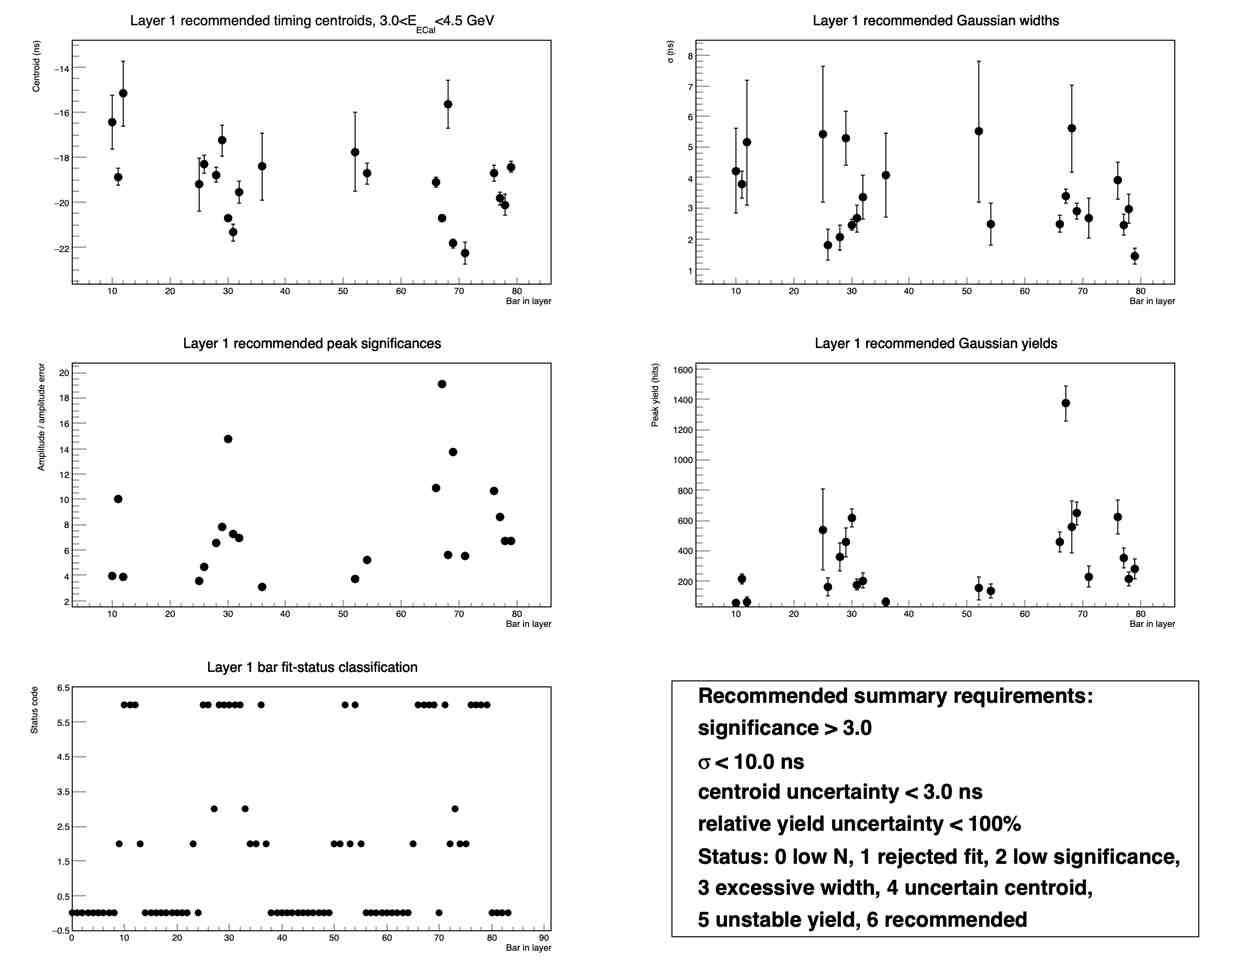
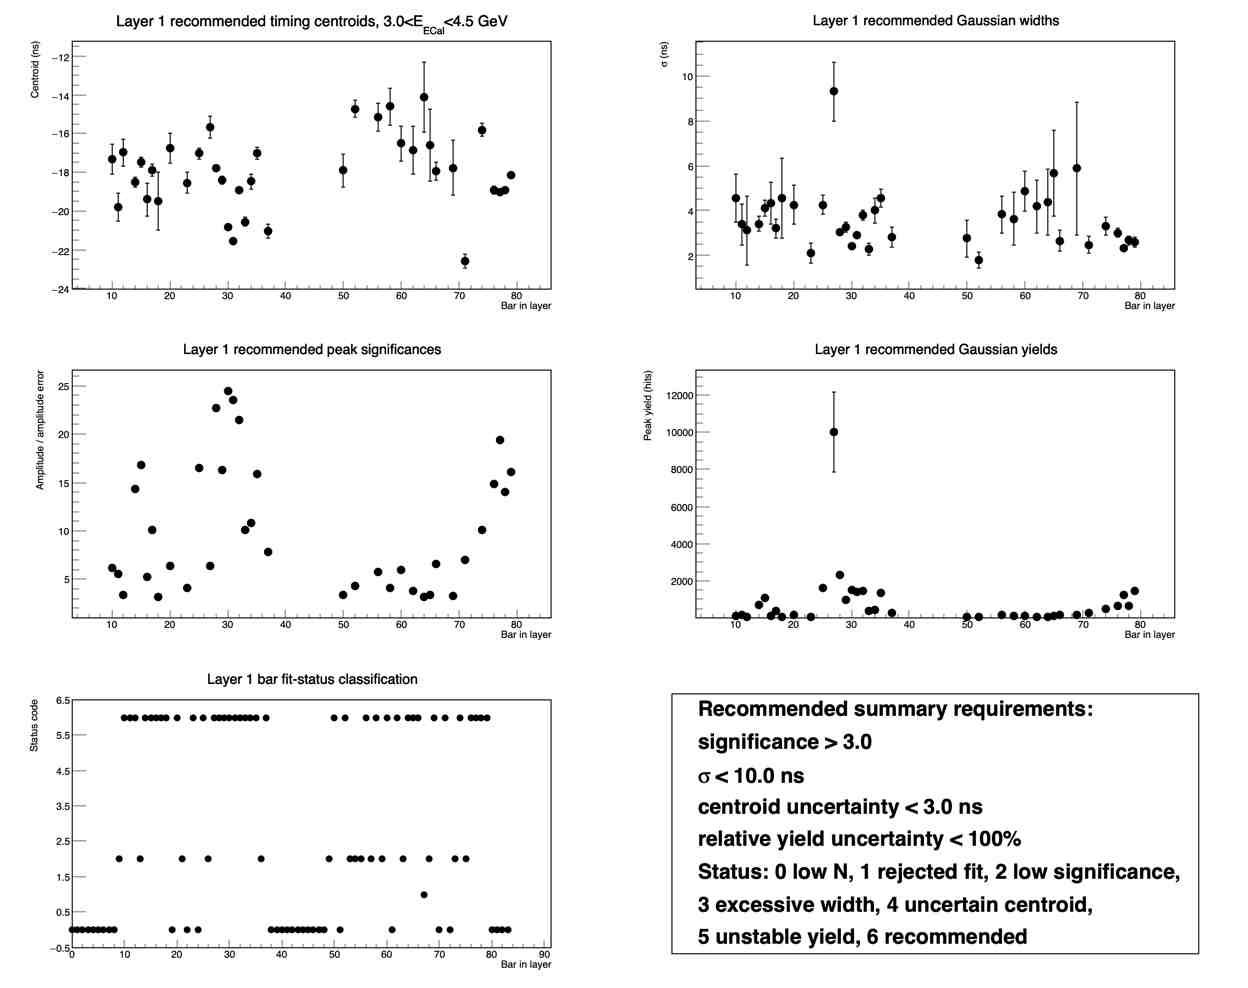
updats

diff --git a/scripts/cdet/CDet_HYDROGEN_RECENT_WORK_SUMMARY.md b/scripts/cdet/CDet_HYDROGEN_RECENT_WORK_SUMMARY.md
@@ -7,8 +7,9 @@ Last updated: 6 September 2026
 This document records the recent CDet hydrogen-analysis work so that the
 analysis can be resumed without reconstructing decisions from an interactive
 ROOT session. It covers the synchronized hydrogen macro, CDet/ECal coordinate
-and timing conventions, the event display, run-specific timing overrides, and
-the detector-wide bar timing survey.
+and timing conventions, the event display, the run-5711 development study,
+the later run-6077 validation, run-specific timing overrides, and the
+detector-wide bar timing survey.
 
 The work remains analysis-oriented. The timing-survey results described below
 are diagnostic recommendations, not a new set of production calibration
@@ -191,7 +192,13 @@ The recommended-fit requirements shown on the canvases are:
 Only status-6 bars are included in the centroid, width, significance, and yield
 panels. The status panel itself includes every bar.
 
-## Focused timing studies for bars 28 and 30
+## Run 5711 focused timing studies: bars 28 and 30
+
+Run 5711 was the development sample for the LH2 workflow. The established
+run-5710 pixel offsets, per-pixel polygon selections, and layer time-walk
+corrections were carried into this much higher-background coincidence-trigger
+environment. The only calibration parameter changed for the run was the
+detector-wide ECal timing slope `p1`, supplied by `CDet_run5711.dat`.
 
 Bars 28 and 30 provide concrete examples of the timing structure summarized
 by the detector-wide survey. Bar 30 lies in a comparatively favorable,
@@ -246,7 +253,7 @@ electron can still traverse CDet and ECal and therefore produce a correlated
 CDet–ECal timing peak. Events well outside that component are predominantly
 the high-rate, low-energy CDet background that is uncorrelated with ECal.
 
-## Survey results from the two ECal energy slices
+## Run 5711 detector-wide survey results
 
 The retained summary canvases are:
 
@@ -293,6 +300,78 @@ The principal observations are:
 The plotted “significance” is specifically the fitted Gaussian amplitude
 divided by its fitted uncertainty. It measures parameter precision; it should
 not be interpreted as a conventional signal-over-background significance.
+
+## Run 6077 validation
+
+Run 6077, taken several weeks later, provided an independent LH2 test of the
+workflow developed with run 5711. The established run-5710 pixel offsets,
+per-pixel polygon selections, and layer time-walk terms were again retained.
+Only the detector-wide ECal timing slope `p1` was changed, through
+`CDet_run6077.dat`; its starting value came from run 5992, the temporally
+closest cross-target reference. The focused diagnostics use the same LH2
+default `8 < TOT < 35 ns` unless a saved per-pixel polygon is present.
+
+Pixel 485 provides a direct comparison with the run-5711 study. Its ECal-CDet
+time-difference spectrum retains a localized component near
+`t_ECal - t_CDet,LE = -22 ns`, demonstrating that the calibrated pixel-level
+timing structure remains recognizable in run 6077.
+
+![Run 6077 ECal-CDet time-difference spectrum for logical pixel 485](documentation_images/hydrogen/run6077_pixel485_ecal_cdet_dt.jpg)
+
+The 4-by-4 bar-30 view shows the corresponding behavior pixel by pixel. The
+peak is clearest in the better-populated channels, while the remaining panels
+illustrate the large uncorrelated LH2 background and the channels for which a
+stable fit is not available.
+
+![Run 6077 individual-pixel ECal-CDet timing fits for bar 30](documentation_images/hydrogen/run6077_bar30_pixel_timing_fits.jpg)
+
+At bar level, ECal trajectory projection followed by the accepted-TOT or
+manual-polygon selection makes the correlated component especially clear for
+bar 30. Bar 28 is a deliberately less favorable example: it retains more
+background, but the same selection exposes a consistent timing enhancement.
+
+![Run 6077 amalgamated timing diagnostics for bar 30 with the 8 to 35 ns TOT selection](documentation_images/hydrogen/run6077_bar30_tot8_35_amalgamated.jpg)
+
+![Run 6077 amalgamated timing diagnostics for bar 28 with the 8 to 35 ns TOT selection](documentation_images/hydrogen/run6077_bar28_tot8_35_amalgamated.jpg)
+
+The detector-wide projected-half-bar diagnostic preserves the strong
+Layer-1/Layer-2 correlation, but places the corrected-time population near
+`35–36 ns` rather than the run-5710 target near `30 ns`. This is evidence for
+a run-dependent common timing shift associated with the trigger/ECal timing
+relationship; it is not evidence that the run-5710 pixel offsets or time-walk
+calibration should be regenerated.
+
+![Run 6077 projected-half-bar timing distributions and Layer-1/Layer-2 correlation](documentation_images/hydrogen/run6077_projected_halfbar_timing.jpg)
+
+The CDet-versus-ECal diagnostic likewise shows a residual run-dependent time
+slope. The appropriate follow-up is therefore to refine the run-6077 entries
+in `CDet_run6077.dat`—the ECal timing parameters and, if required, the final
+global shift—while keeping the established detector-relative calibration
+fixed.
+
+![Run 6077 CDet-versus-ECal timing diagnostics](documentation_images/hydrogen/run6077_ecal_timing_diagnostics.jpg)
+
+## Run 5711–6077 stability milestone
+
+The important result is not merely that both runs contain a visible timing
+peak. Run 6077 reproduces the essential run-5711 behavior several weeks later
+without recalibrating the detector-relative quantities:
+
+| Calibration component | Run 5711 to run 6077 treatment |
+|---|---|
+| Per-pixel timing offsets | Unchanged |
+| Per-pixel LE-versus-TOT polygons | Unchanged |
+| Layer time-walk corrections | Unchanged |
+| LH2 default TOT selection | Unchanged: `8 < TOT < 35 ns` |
+| Detector-wide ECal timing slope `p1` | Run-specific: `0.12844` for run 5711 and `1.00869` for run 6077 |
+
+With only this one run-specific calibration parameter changed, both data sets
+show a narrow correlated component near `-20` to `-22 ns`, compatible behavior
+in bars 28 and 30, and a strong Layer-1/Layer-2 timing correlation. This is an
+important CDet stability milestone: the run-5710 pixel-offset and time-walk
+calibration transferred across distinct LH2 runs, while the changing external
+trigger/ECal timing relationship was isolated in the intended per-run `p1`
+override.
 
 ## Recommended next analysis
 
